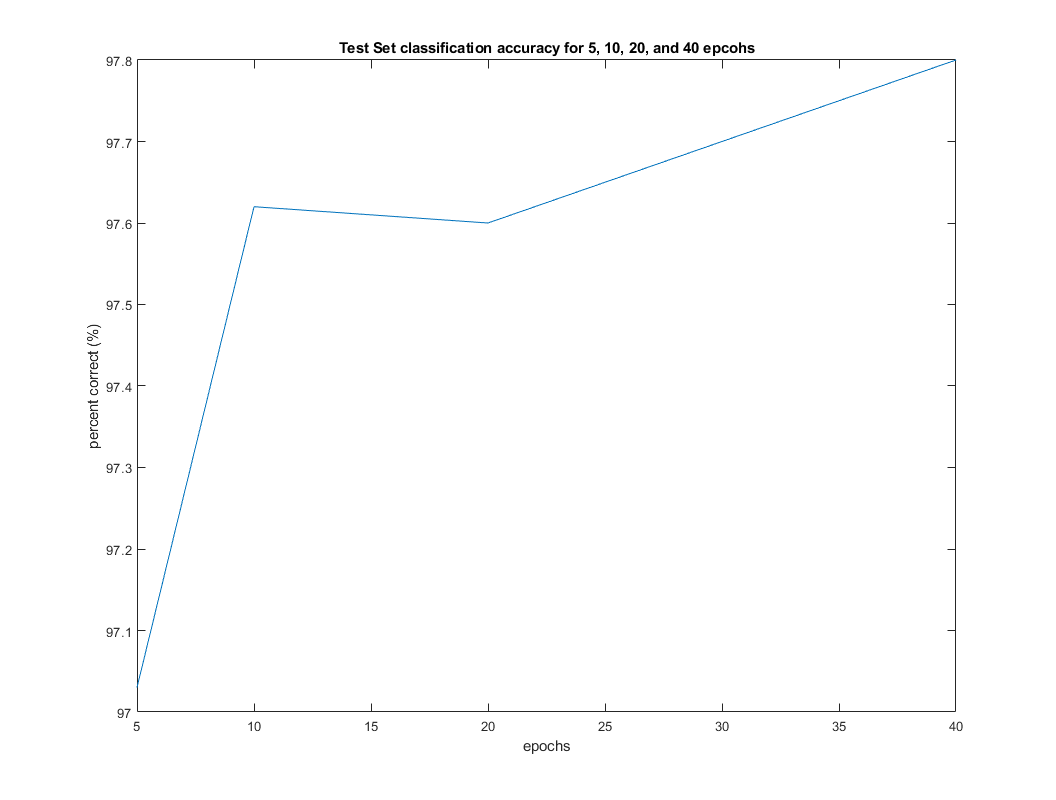
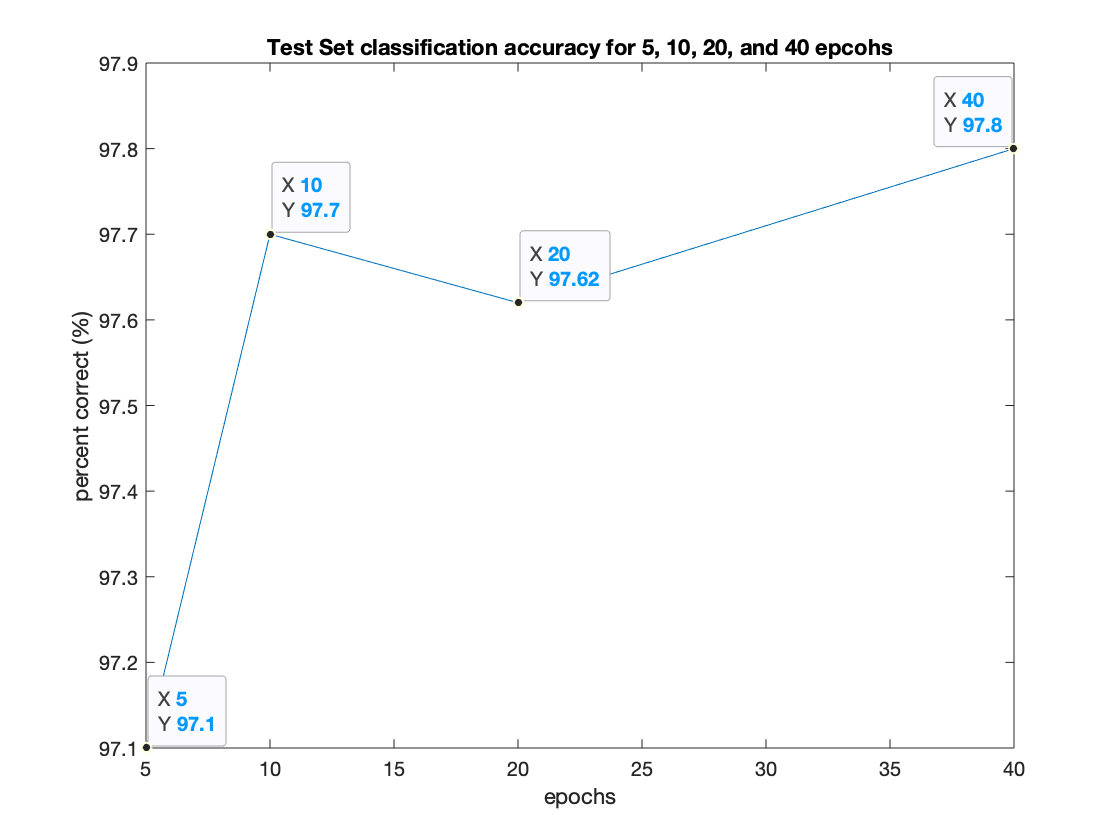
more images and updated graph function

diff --git a/graph_backprop.m b/graph_backprop.m
@@ -9,7 +9,7 @@ p = [0,1,1,1,0,1,0,0,0,1,1,0,0,0,1,1,0,0,0,1,1,0,0,0,1,0,1,1,1,0; %0
 t = [0;1;2];
 
 % number of iterations for three digits
-epochs = 15000;
+epochs = 3000;
 output = 3;
 layers = 4;
 neurons = 100;
@@ -67,6 +67,6 @@ figure;
 plot1 = plot([5,10,20,40],progress);
 xlabel('epochs');
 ylabel('percent correct (%)');
-title ('Test Set classification accuracy for 10, 20, 40, and 60 epcohs');
+title ('Test Set classification accuracy for 5, 10, 20, and 40 epcohs');
 
 end
